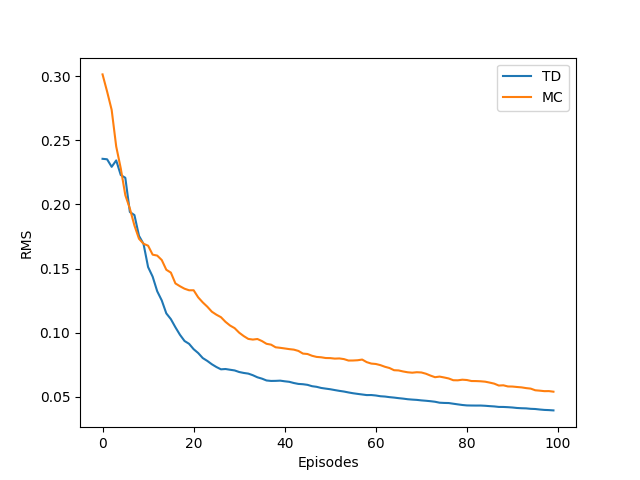
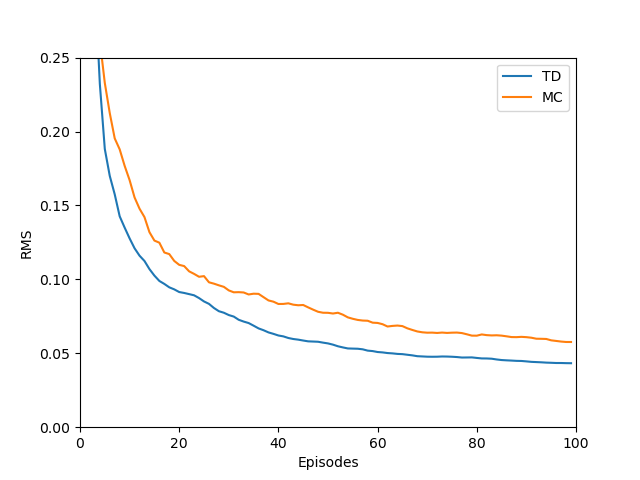
refactor code

diff --git a/chapter-6/random_walk.py b/chapter-6/random_walk.py
@@ -1,0 +1,305 @@
+import numpy as np
+import matplotlib.pyplot as plt
+from tqdm import tqdm
+import string
+
+
+class RandomWalk:
+
+
+    def __init__(self, n_states, start_state):
+        self.n_states = n_states
+        self.start_state = start_state
+        self.states = np.arange(1, n_states + 1)
+        self.state_labels = list(string.ascii_uppercase)[:n_states]
+        self.end_states = [0, n_states + 1]
+        self.actions = [-1, 1]
+        self.rewards = [0, 1]
+
+
+    def is_terminal(self, state):
+        '''
+        Whether state @state is an end state
+
+        Params
+        ------
+        state: int
+            current state
+        '''
+        return state in self.end_states
+
+
+    def get_reward(self, state):
+        '''
+        Get reward when ending at state @state
+
+        Params
+        ------
+        state: int
+            current state
+
+        Return
+        ------
+        reward: int
+            reward at state @state
+        '''
+        if state == self.end_states[1]:
+            reward = self.rewards[1]
+        else:
+            reward = self.rewards[0]
+
+        return reward
+
+
+    def take_action(self, state, action):
+        '''
+        Take action @action at state @state
+
+        Params
+        ------
+        state: int
+            current state
+        action: int
+            action taken
+
+        Return
+        ------
+        (next_state, reward): (int, int)
+            a tuple of next state and reward
+        '''
+        next_state = state + action
+        reward = self.get_reward(next_state)
+
+        return next_state, reward
+
+
+def get_true_value(n_states):
+    '''
+    Compute true values
+    '''
+    true_value = [1.0 * x / (n_states + 1) for x in range(1, n_states + 1)]
+    return true_value
+
+
+def random_policy(random_walk):
+    '''
+    Choose an action randomly
+
+    Params
+    ------
+    random_walk: RandomWalk
+    '''
+    return np.random.choice(random_walk.actions)
+
+
+def temporal_difference(V, random_walk, alpha, gamma, batch_update=False):
+    '''
+    TD(0) w/ & without batch updating
+
+    Params
+    ------
+    V: np.ndarray
+        value function
+    random_walk: RandomWalk
+    alpha: float
+        step size
+    gamma: float
+        discount factor
+    batch_update: boolean
+        is batch updating
+    '''
+    state = random_walk.start_state
+    trajectory = [[state, 0]]
+
+    while True:
+        action = random_policy(random_walk)
+        next_state, reward = random_walk.take_action(state, action)
+        trajectory.append([next_state, reward])
+        if not batch_update:
+            V[state] += alpha * (reward + gamma * V[next_state] - V[state])
+        state = next_state
+        if random_walk.is_terminal(state):
+            break
+
+    return trajectory
+
+
+def monte_carlo(V, random_walk, alpha, gamma, batch_update=False):
+    '''
+    Constant-alpha Monte Carlo
+
+    Params
+    ------
+    V: np.ndarray
+        value function
+    random_walk: RandomWalk
+    alpha: float
+        step size
+    gamma: float
+        discount factor
+    batch_update: boolean
+        is batch updating
+    '''
+    state = random_walk.start_state
+    trajectory = [[state, 0]]
+
+    while True:
+        action = random_policy(random_walk)
+        next_state, reward = random_walk.take_action(state, action)
+        trajectory.append([next_state, reward])
+        state = next_state
+
+        if random_walk.is_terminal(state):
+            break
+
+    # the return at each state is equal to the reward at the terminal state.
+    if not batch_update:
+        for state_, _ in trajectory[:-1]:
+            V[state_] += alpha * (reward - V[state_])
+
+    return trajectory
+
+
+def get_state_values(random_walk, true_value, n_eps, alpha, gamma):
+    V = np.full(random_walk.n_states + 2, 0.5)
+    V[0] = V[-1] = 0
+    eps = [0, 1, 10, 100]
+
+    plt.plot(random_walk.state_labels, true_value, label='true values')
+
+    for ep in range(n_eps + 1):
+        if ep in eps:
+            plt.plot(random_walk.state_labels, V[1:-1], label=str(ep) + ' episodes')
+        _ = temporal_difference(V, random_walk, alpha, gamma)
+
+    plt.xlabel('State')
+    plt.ylabel('Estimated value')
+    plt.legend()
+
+
+def get_rmse(random_walk, true_value, n_eps, gamma):
+    V = np.full(random_walk.n_states + 2, 0.5)
+    V[0] = V[-1] = 0
+    methods = [
+        {
+            'name': 'TD',
+            'alphas': [0.05, 0.1, 0.15],
+            'func': temporal_difference,
+            'linestyle': 'solid'
+        },
+        {
+            'name': 'MC',
+            'alphas': [0.01, 0.02, 0.03, 0.04],
+            'func': monte_carlo,
+            'linestyle': 'dashdot'
+        }
+    ]
+    n_runs = 100
+
+    for method in methods:
+        for alpha in method['alphas']:
+            print(f'{method["name"]} method, alpha={alpha}', end='')
+            total_errors = np.zeros(n_eps)
+            for _ in tqdm(range(n_runs)):
+                V_ = V.copy()
+                errors = []
+                for _ in range(n_eps):
+                    rmse = np.sqrt(np.sum(np.power(V_[1:-1] - true_value, 2) / random_walk.n_states))
+                    errors.append(rmse)
+                    _ = method['func'](V_, random_walk, alpha, gamma)
+                total_errors += np.asarray(errors)
+            total_errors /= n_runs
+            plt.plot(total_errors, label=method['name'] + ', alpha = %.02f' % (alpha), 
+                linestyle=method['linestyle'])
+            print()
+    plt.xlabel('Episodes')
+    plt.ylabel('RMS')
+    plt.legend()
+
+
+def rmse_batch_updating(random_walk, true_value, n_eps, alpha, gamma):
+    V = np.full(random_walk.n_states + 2, -1.0)
+    V[0] = 0
+    V[-1] = 1
+    methods = [
+        {
+            'name': 'TD',
+            'func': temporal_difference,
+        },
+        {
+            'name': 'MC',
+            'func': monte_carlo,
+        }
+    ]
+    n_runs = 100
+
+    for method in methods:
+        print(f'{method["name"]} method', end='')
+        total_errors = np.zeros(n_eps)
+        for _ in tqdm(range(n_runs)):
+            V_ = V.copy()
+            errors = []
+            trajectories = []
+            for _ in range(n_eps):
+                trajectory = method['func'](V_, random_walk, alpha, gamma, True)
+                trajectories.append(trajectory)
+
+                while True:
+                    # old_values = V_.copy()
+                    delta = np.zeros(random_walk.n_states + 2)
+
+                    for trajectory_ in trajectories:
+                        for i in range(len(trajectory_) - 1):
+                            state = trajectory_[i][0]
+                            next_state = trajectory_[i+1][0]
+                            if method['name'] == 'TD':
+                                reward = trajectory_[i][1]
+                                # V_[state] += alpha * (reward + gamma * V_[next_state] - V_[state])
+                                delta[state] += alpha * (reward + gamma * V_[next_state] - V_[state])
+                            else:
+                                return_ = trajectory_[-1][1]
+                                # V_[state] += alpha * (return_ - V_[state])
+                                delta[state] += alpha * (return_ - V_[state])
+                    # if np.abs(np.sum(V_ - old_values)) < 1e-3:
+                    if np.sum(np.abs(delta)) < 1e-3:
+                        break
+                    V_ += delta
+
+                rmse = np.sqrt(np.sum(np.power(V_[1:-1] - true_value, 2)) / random_walk.n_states)
+                errors.append(rmse)
+            total_errors += np.asarray(errors)
+        total_errors /= n_runs
+        plt.plot(total_errors, label=method['name'])
+        print()
+    plt.xlabel('Episodes')
+    plt.ylabel('RMS')
+    plt.xlim(0, 100)
+    plt.ylim(0, 0.25)
+    plt.legend()
+    plt.savefig('./random_walk_batch_updating.png')
+    plt.close()
+
+
+if __name__ == '__main__':
+    n_states = 5
+    start_state = 3
+    random_walk = RandomWalk(n_states, start_state)
+    n_eps = 100
+    alpha = 0.1
+    gamma = 1
+    true_value = get_true_value(n_states)
+
+    plt.figure(figsize=(15, 7))
+    plt.subplot(1, 2, 1)
+    get_state_values(random_walk, true_value, n_eps, alpha, gamma)
+
+    plt.subplot(1, 2, 2)
+    get_rmse(random_walk, true_value, n_eps, gamma)
+    plt.tight_layout()
+    plt.savefig('./random_walk.png')
+    plt.close()
+
+    print('Batch updating')
+    batch_alpha = 0.001
+    rmse_batch_updating(random_walk, true_value, n_eps, batch_alpha, gamma)
+
